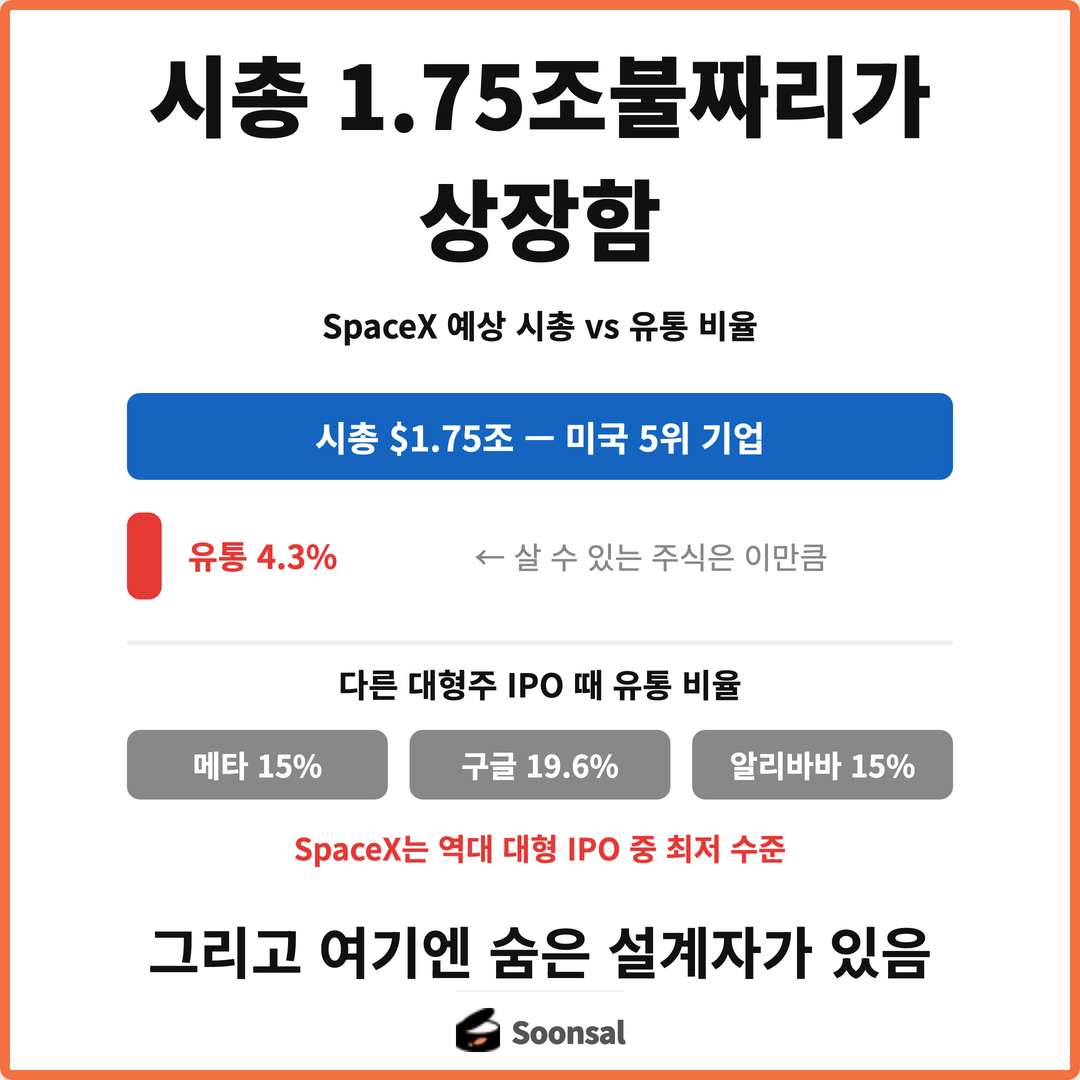
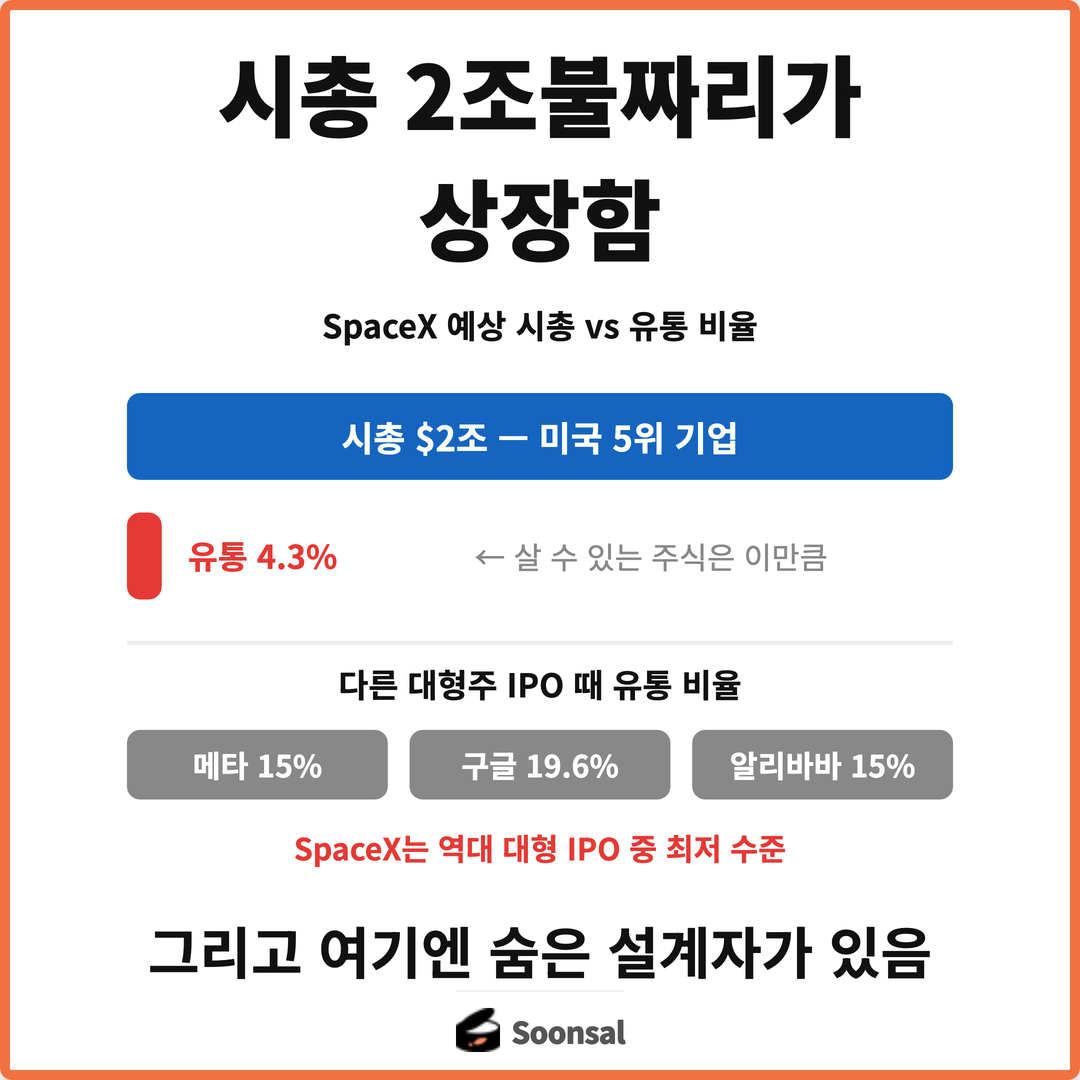
Add 순살카드뉴스 0406

Changed region(s): [[0.1222, 0.0306, 0.8556, 0.1528], [0.275, 0.3667, 0.7028, 0.4278]]

diff --git a/cardnews/2026/0406.html b/cardnews/2026/0406.html
@@ -96,7 +96,7 @@
 
 <!-- ===== CARD 2 (팩트폭탄) ===== -->
 <div class="card">
-  <div class="top-text">시총 1.75조불짜리가<br>상장함</div>
+  <div class="top-text">시총 2조불짜리가<br>상장함</div>
   <div class="illust">
     <svg width="460" height="280" viewBox="0 0 460 280">
       <!-- SpaceX vs 유통 비율 비교 -->
@@ -104,7 +104,7 @@
 
       <!-- 시총 바 -->
       <rect x="40" y="50" width="380" height="40" rx="6" fill="#1565C0"/>
-      <text x="230" y="77" text-anchor="middle" font-size="16" font-weight="700" fill="#fff">시총 $1.75조 — 미국 5위 기업</text>
+      <text x="230" y="77" text-anchor="middle" font-size="16" font-weight="700" fill="#fff">시총 $2조 — 미국 5위 기업</text>
 
       <!-- 유통 비율 바 -->
       <rect x="40" y="105" width="16" height="40" rx="6" fill="#e53935"/>
@@ -158,7 +158,7 @@
 
       <rect x="40" y="195" width="380" height="75" rx="10" fill="#1565C0" opacity="0.1"/>
       <text x="230" y="225" text-anchor="middle" font-size="17" font-weight="700" fill="#1565C0">유통 4.3% × 3 = 시총의 12.9%만 반영</text>
-      <text x="230" y="253" text-anchor="middle" font-size="14" fill="#888">시총이 1.75조불이라 그래도 인덱스 비중 상당</text>
+      <text x="230" y="253" text-anchor="middle" font-size="14" fill="#888">시총이 2조불이라 그래도 인덱스 비중 상당</text>
     </svg>
   </div>
   <div class="bottom-text small">SpaceX 맞춤형 룰이라는 비판도 나옴</div>
